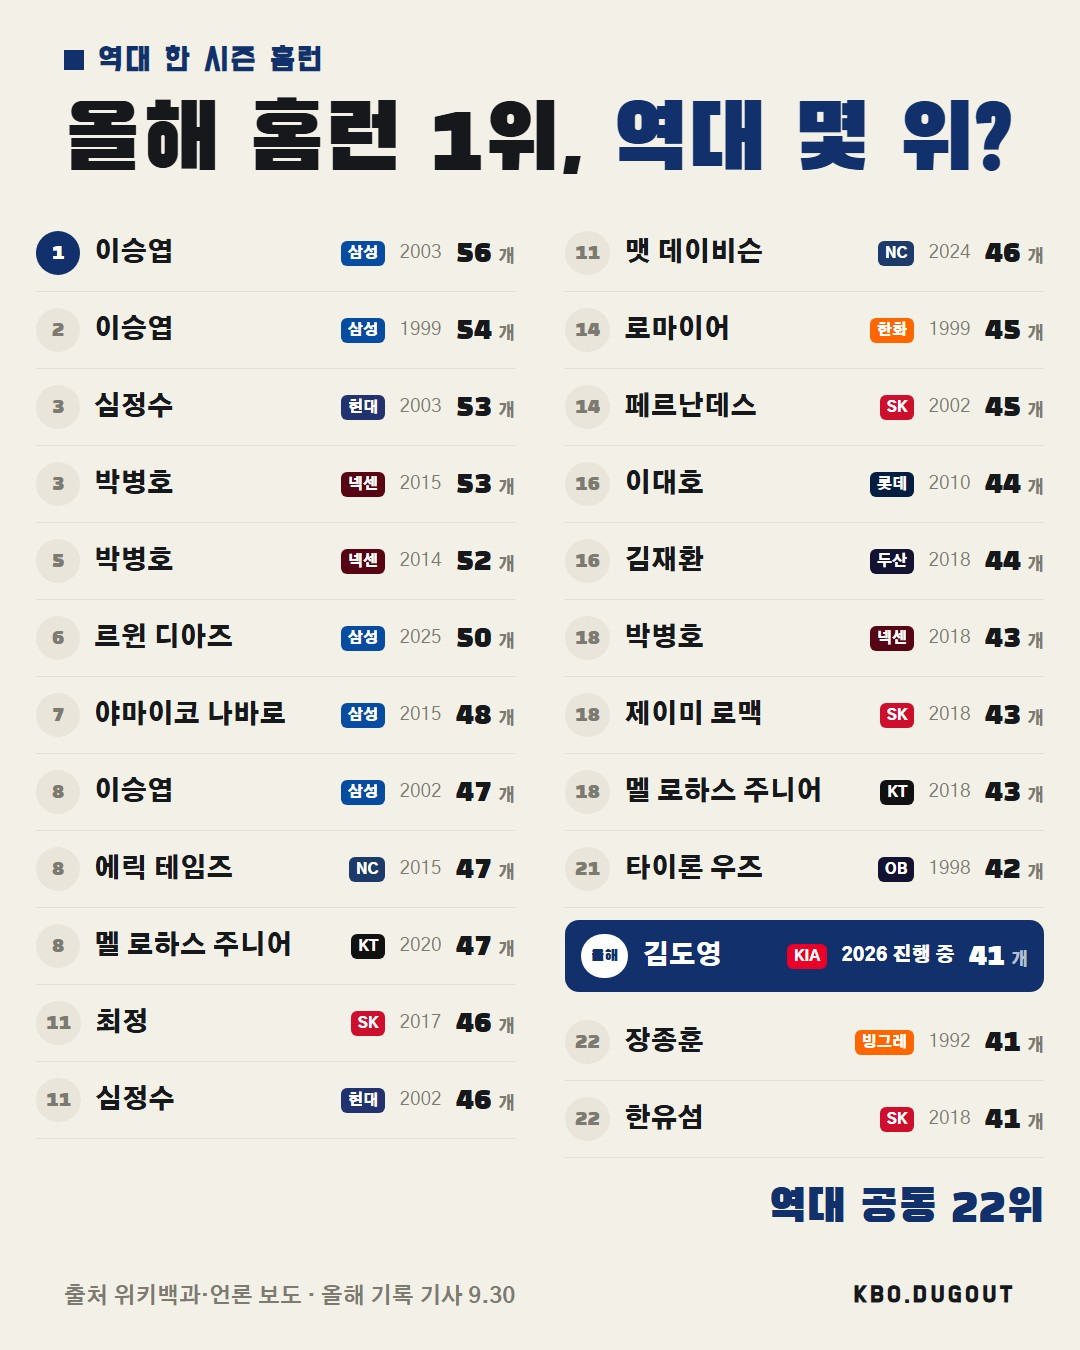
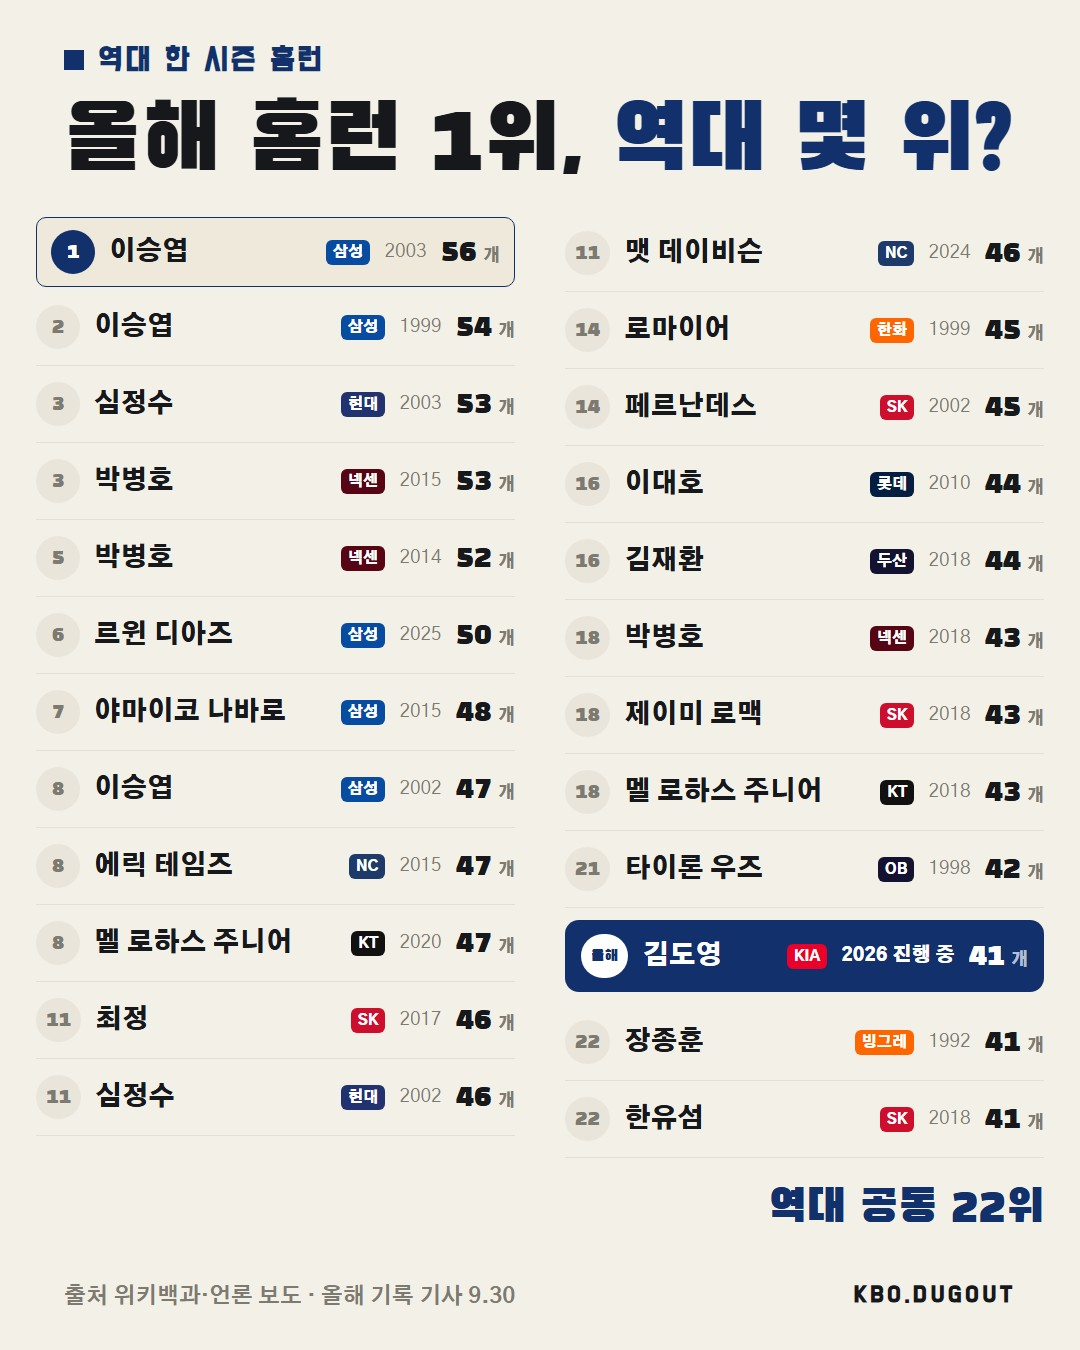
chore: publish review batch 072fbcd67086

diff --git a/review/2026-09-30-072fbcd67086.html b/review/2026-09-30-072fbcd67086.html
@@ -1,0 +1,29 @@
+<!doctype html>
+<html lang="ko">
+<head>
+  <meta charset="utf-8">
+  <meta name="viewport" content="width=device-width, initial-scale=1">
+  <title>콘텐츠 검토</title>
+  <style>
+    * { box-sizing: border-box; }
+    body { margin: 0; background: #f3efe4; color: #182126; font-family: sans-serif; }
+    main { width: min(100%, 720px); margin: auto; padding: 24px 16px 48px; }
+    article { margin: 0 0 32px; padding-bottom: 32px; border-bottom: 1px solid #aaa397; }
+    .carousel { display: grid; gap: 12px; }
+    img { display: block; width: 100%; max-width: 100%; height: auto; }
+    .meta { color: #5f625e; font-size: .85rem; }
+    .body { white-space: pre-wrap; line-height: 1.65; }
+    .qa { padding: 12px; background: #e5ded0; }
+  </style>
+</head>
+<body><main><h1>콘텐츠 검토</h1><article>
+  <p class="meta">Draft #64</p>
+  <div class="carousel">
+    <img src="../cards/draft-64-01.png" alt="Draft #64 카드 1">
+  </div>
+  <p class="body">현재 홈런 1위 김도영, 역대 공동 22위. 역대 몇 위까지 갈 수 있을까?
+
+출처: 위키백과·언론 보도 (위키백과 CC BY-SA) · 올해 기록 기사 9.30</p>
+  <p class="qa"><strong>QA</strong> 없음</p>
+</article></main></body>
+</html>
